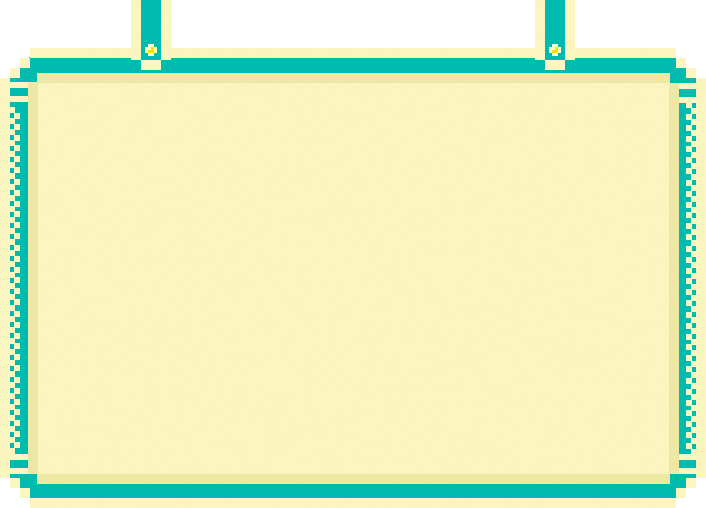
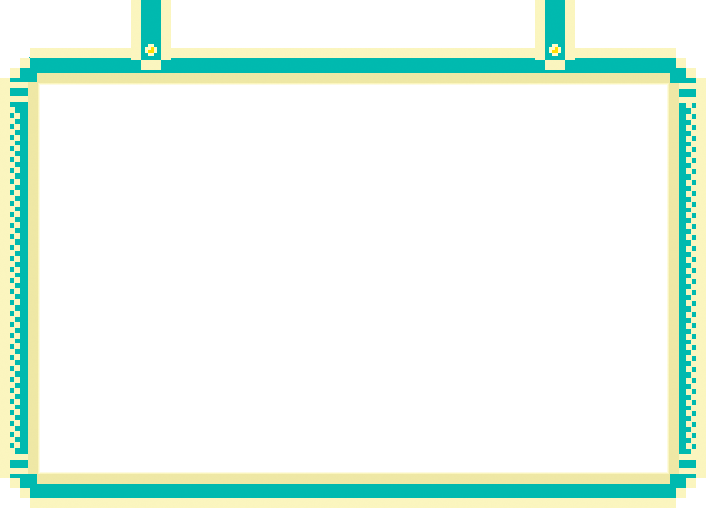
feat(components/UserPage): 增加标签墙的基本样式和为空时的样式

diff --git a/src/components/UserPage/index.js b/src/components/UserPage/index.js
@@ -1,0 +1,33 @@
+import React from 'react'
+
+import styles from './UserPage.scss'
+
+class UserPage extends React.Component {
+  render() {
+    return (
+      <div>
+        <LabelWall/>
+      </div>
+    )
+  }
+}
+
+class LabelWall extends React.Component {
+  render() {
+    const hasLabel = this.props.labelIds.length > 0
+  
+    return (
+      <div className={styles['wall-container']}>
+        <div className={`${styles['wall-content']} ${hasLabel ? '' : styles['empty']}`}>
+      
+        </div>
+      </div>
+    )
+  }
+}
+
+LabelWall.defaultProps = {
+  labelIds: []
+}
+
+export default UserPage

diff --git a/src/components/UserPage/UserPage.scss b/src/components/UserPage/UserPage.scss
@@ -1,0 +1,25 @@
+.wall-container {
+  margin: 0 auto;
+  width: 706px;
+  height: 508px;
+  padding: 83px 37px 34px;
+  background: url("assets/wall@2x.png") no-repeat center / cover;
+}
+
+.wall-content {
+  height: 100%;
+  background: #f9f5c0 no-repeat;
+  
+  &.empty {
+    padding-top: 285px;
+    background-image: url("assets/airship@2x.png") ;
+    background-position: center 69px;
+    background-size: 180px 185px;
+    text-align: center;
+    &::after {
+      content: "一个标签都没有 永远只做单身狗";
+      font-size: 24px;
+      font-weight: bold;
+    }
+  }
+}

diff --git a/build/webpack.prod.config.js b/build/webpack.prod.config.js
@@ -26,6 +26,17 @@ module.exports = WebpackMerge(baseConfig, {
               'sass-loader'
             ]
           })
+      },
+      {
+        test: /\.css$/,
+        use:
+          ExtractTextPlugin.extract({
+            fallback: 'style-loader',
+            use: [
+              'style-loader',
+              'css-loader',
+            ]
+          })
       }
     ]
   },

diff --git a/src/components/App.js b/src/components/App.js
@@ -1,8 +1,13 @@
 import React from 'react'
+import { Route } from 'react-router-dom'
+import 'normalize.css'
+import './App.css'
+
+import UserPage from 'components/UserPage'
 
 const App = (props) => (
   <div>
-    Hello React
+    <Route path="/" component={UserPage}/>
   </div>
 )
 

diff --git a/build/webpack.dev.config.js b/build/webpack.dev.config.js
@@ -24,6 +24,13 @@ module.exports = WebpackMerge(baseConfig, {
           'postcss-loader',
           'sass-loader'
         ]
+      },
+      {
+        test: /\.css$/,
+        use: [
+          'style-loader',
+          'css-loader',
+        ]
       }
     ]
   },

diff --git a/src/components/App.css b/src/components/App.css
@@ -1,0 +1,9 @@
+* {
+    box-sizing: border-box;
+}
+
+body {
+    margin: 0;
+    height: 100vh;
+    background: #57bdb6 url("~assets/decoration@2x.png") no-repeat center / cover;
+}

diff --git a/postcss.config.js b/postcss.config.js
@@ -1,5 +1,8 @@
 module.exports = {
   plugins: [
+    require('postcss-px2rem')({
+      remUnit: 75
+    }),
     require('autoprefixer')
   ]
 };
